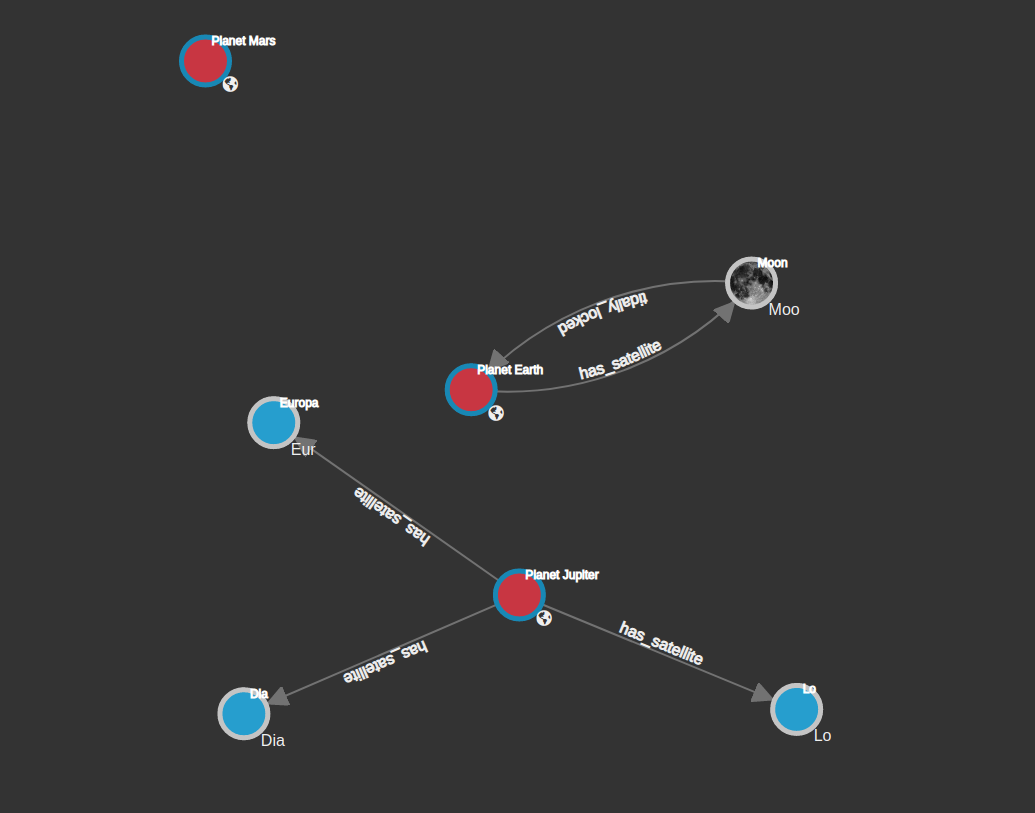
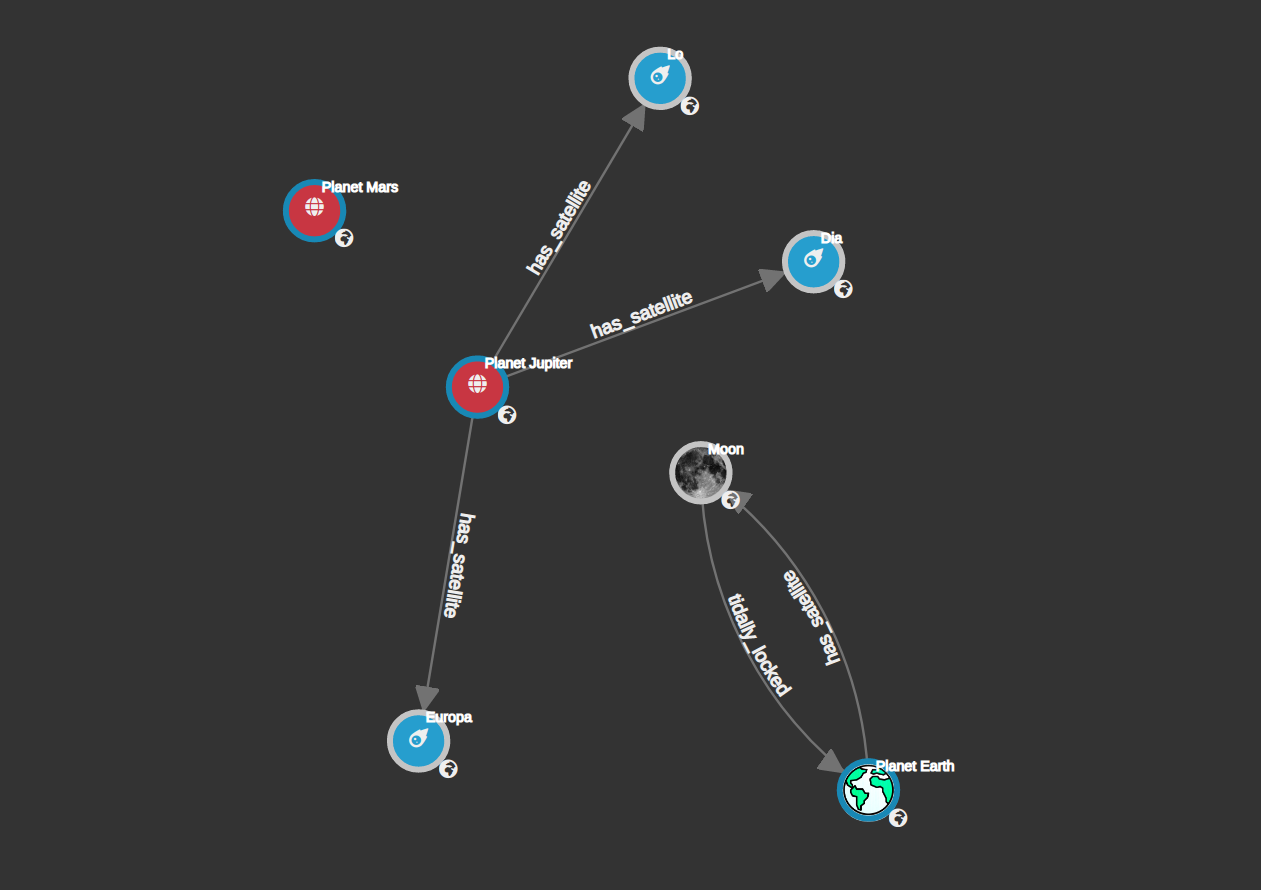
readme updated

diff --git a/example/index.html b/example/index.html
@@ -61,6 +61,8 @@
     const nodeOptions = {
         "Planet": {
             "bgImagePropertyKey": "image",
+            // "bgImageUrl": "" - use this to set default backgroun image for this node or
+            // bgImagePropertyKey to get data from the properties data
             "labelOptions": {
                 "showLabel": true,
                 "labelTextFn": (node) => "Planet " + node.properties.name,
@@ -91,7 +93,7 @@
             },
 
         }
-    }
+     }
 
     const nodesData = prepareNodesDataWithOptions(nodes, nodeOptions);
     const linksData = prepareLinksDataForCurves(links);

diff --git a/README.md b/README.md
@@ -1,14 +1,14 @@
 # Graph Canvas 
 
-Graph Canvas is [d3](https://d3js.org) based Graph UI library built 
-at [InvanaGraph](https://invana.io) for creating beautiful Graph 
-representations.
+Graph Canvas is [d3](https://d3js.org)v4 based Graph UI library built 
+at [InvanaGraph](https://invana.io) for creating clean and beautiful 
+graph data representations.
 
 ![screenshot](./screenshot.png)
 
 
+Refer `examples/` folder for full implementation code. 
 ```html
-
 <script src="/src/example-data.js"></script>
 <script src="/src/canvas-utils.js"></script>
 <script src="/src/canvas.js"></script>
@@ -48,6 +48,8 @@ representations.
     const nodeOptions = {
         "Planet": {
             "bgImagePropertyKey": "image",
+            // "bgImageUrl": "" - use this to set default backgroun image for this node or
+            // bgImagePropertyKey to get data from the properties data
             "labelOptions": {
                 "showLabel": true,
                 "labelTextFn": (node) => "Planet " + node.properties.name,
@@ -56,13 +58,15 @@ representations.
                 "radius": 24,
                 "strokeWidth": "4px",
                 "fillColor": "#ba4040",
-                "inShapeHTML": "<i class=\"fas fa-globe-americas\"></i>"
-
+                "inShapeHTML": "<i class=\"fas fa-globe\"></i>"
+            },
+            "tagOptions":{
+                "tagHtml": "<i class=\"fas fa-tools\"></i>"
             }
 
         },
         "Satellite": {
-            "bgImageUrl": "https://pngimg.com/uploads/moon/moon_PNG19.png",
+            "bgImagePropertyKey": "image",
             "labelOptions": {
                 "showLabel": true,
                 "labelTextFn": (node) => node.properties.name,
@@ -72,11 +76,11 @@ representations.
                 "strokeWidth": "4px",
                 "strokeColor": "#c4c4c4",
                 "fillColor": "#519ad2",
-                // "inShapeHTMLFn": (node) => node.properties.name.substring(0, 3)
+                "inShapeHTMLFn": (node) => "<i class=\"fas fa-meteor\"></i>" //"<strong>" + node.properties.name.substring(0, 3) + "</strong>"
             },
 
         }
-    }
+     }
 
     const nodesData = prepareNodesDataWithOptions(nodes, nodeOptions);
     const linksData = prepareLinksDataForCurves(links);
@@ -98,38 +102,34 @@ representations.
 </script>
 ```
 
-- [ ] drawCanvas
+ 
 
-- [ ] setnodeFillColor
-- [ ] setNodeRadius
-- [ ] setNodeStrokeColor
-- [ ] setNodeTagImage - one of the right bottom of node.
-- [ ] setNodeCenterText
-- [ ] setNodeLabel
-- [ ] setNodeShape [Not important during beta]
+- [x] setNodeFillColor
+- [x] setNodeRadius
+- [x] setNodeStrokeColor
+- [x] setNodeTagImage - one of the right bottom of node.
+- [x] setNodeHtml
+- [x] setNodeLabel
+- [ ] setNodeShape [Not implementing during beta]
 
-- [ ] setLinkLength
-- [ ] setLinkStrokeColor
-- [ ] setLinkStrokeType
-- [ ] setLinkBorderColor
-- [ ] setLinkLabel
-- [ ] setLinkLabelColor
+- [x] setLinkLength
+- [x] setLinkStrokeColor
+- [x] setLinkStrokeType
+- [x] setLinkBorderColor
+- [x] setLinkLabel
+- [x] setLinkLabelColor
 - [ ] setArrowHeadColor
 
 - [ ] fixNodePosition
 - [ ] releaseNodePosition
-
-
-- [ ] showToolTip
-- [ ] hideToolTip
-
-- [ ] ZoomInCanvas
-- [ ] ZoomOutCanvas
-- [ ] pan
+ 
+- [x] ZoomInCanvas
+- [x] ZoomOutCanvas
+- [x] pan
 
 - [ ] CenterObjectsInCanvas
-- [ ] onDragStarted
-- [ ] onDragEnded
+- [x] onDragStarted // control not given to user yet
+- [x] onDragEnded // control not given to user yet
 
 
 
